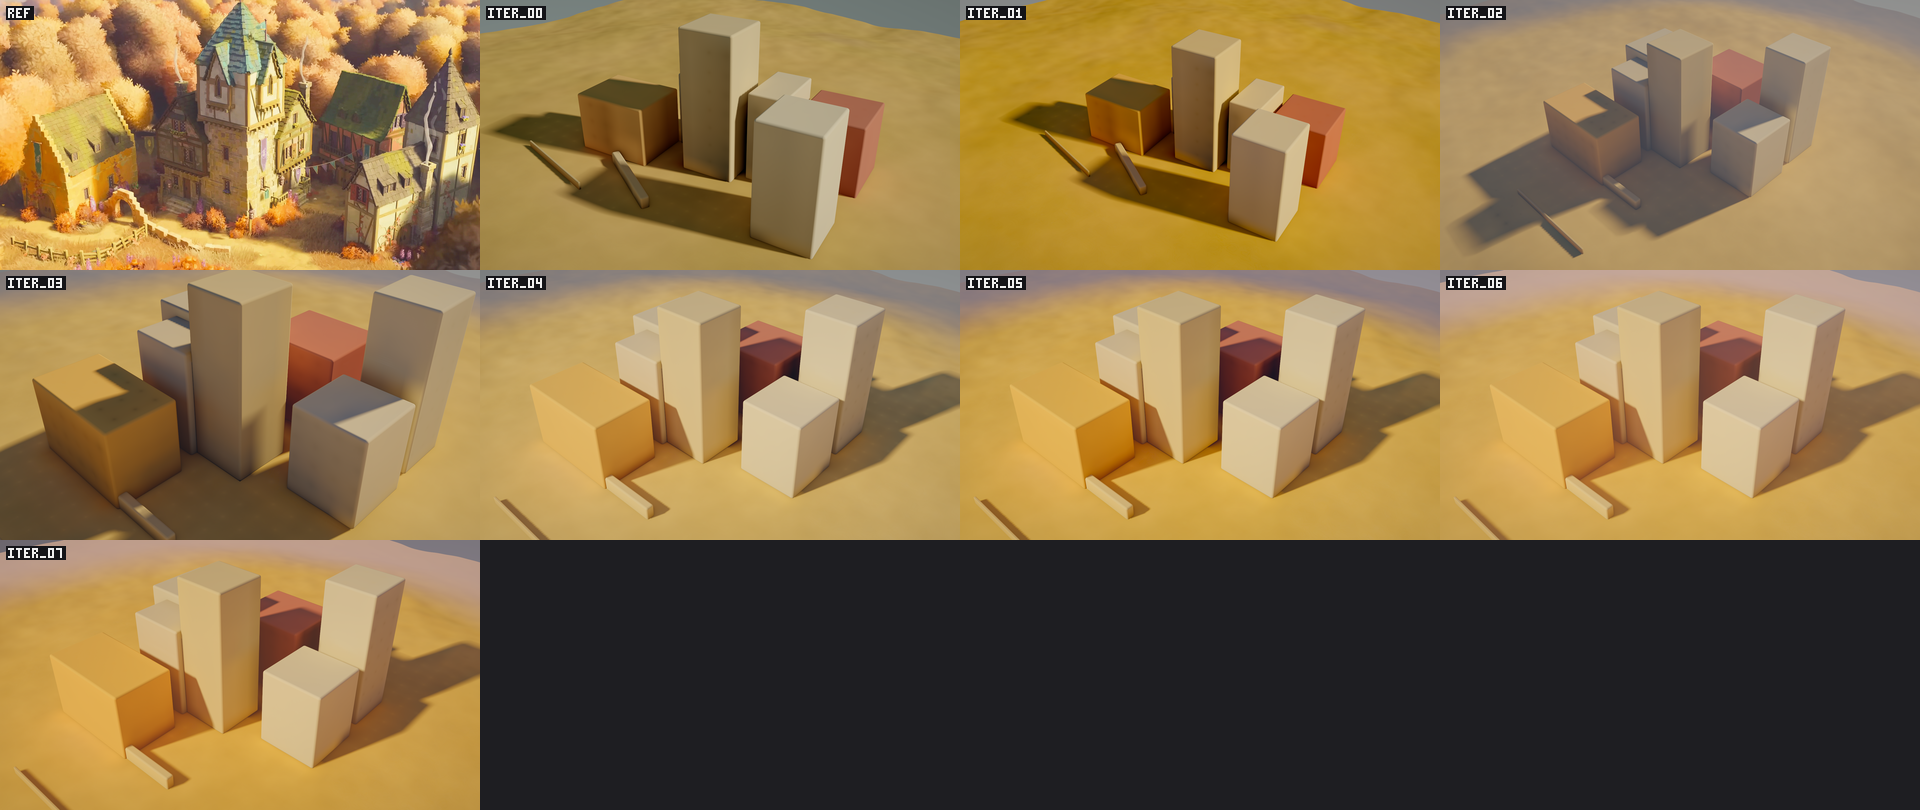
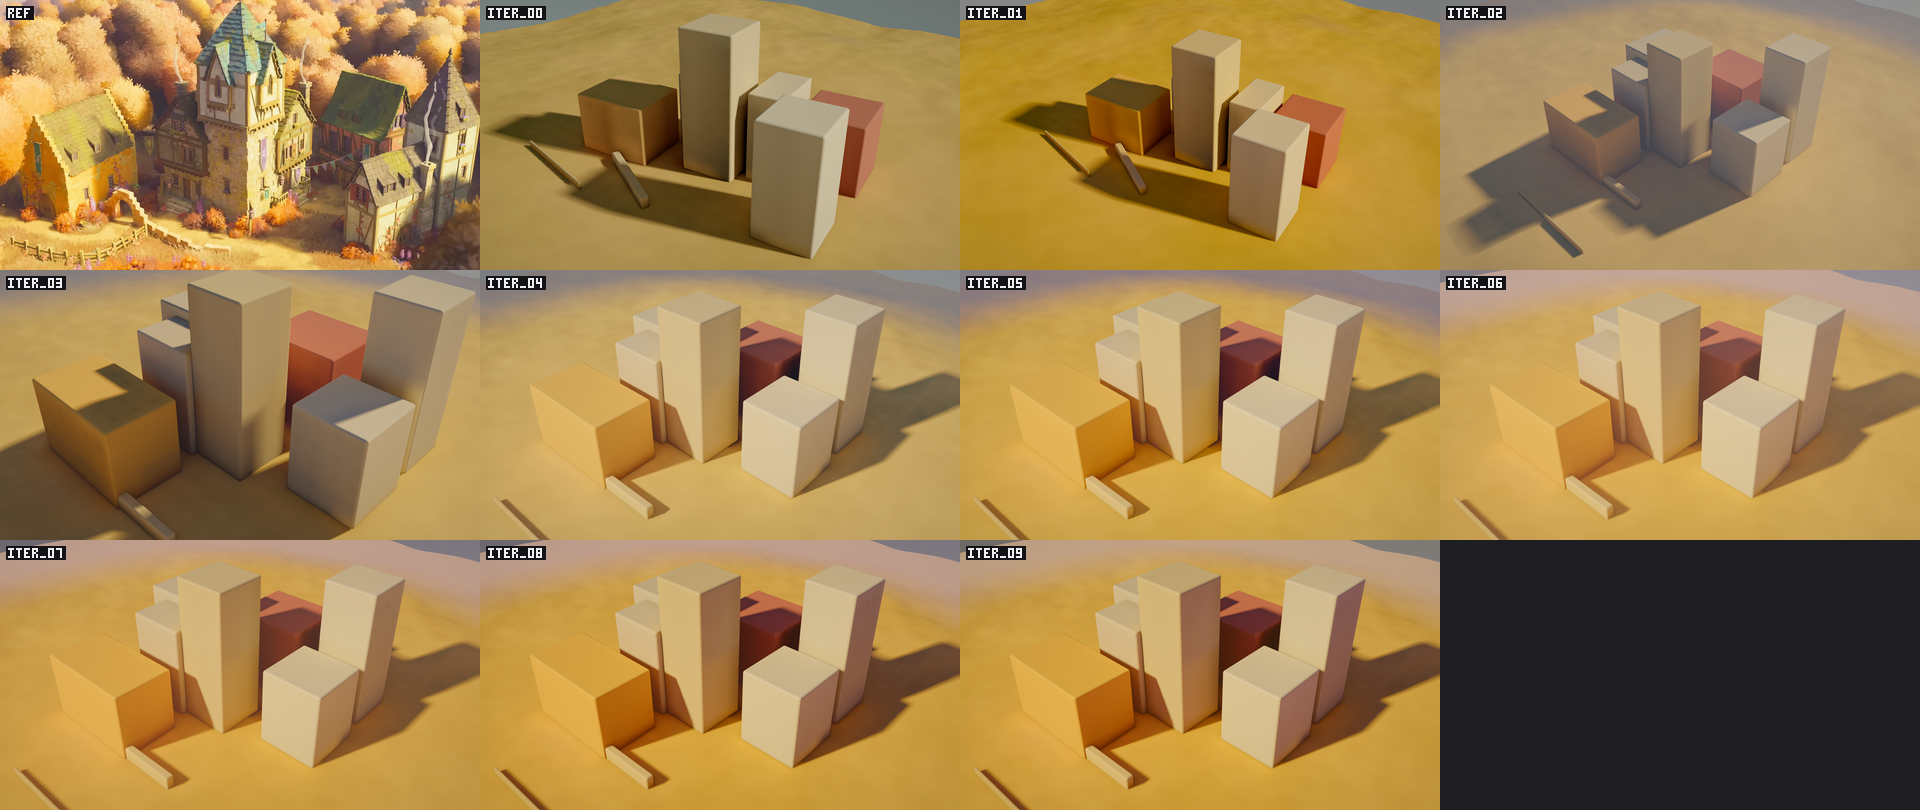
G1 lighting sandbox: shade tint, near-haze cutoff, iterations 8-9, critic; stop for review

Changed region(s): [[0.25, 0.6481, 0.75, 1.0]]

diff --git a/crates/gouache_world/src/look.rs b/crates/gouache_world/src/look.rs
@@ -24,6 +24,8 @@ pub struct Look {
     pub ambient_tint: [f32; 3],
     /// Tint on the visible sky/backdrop.
     pub sky_tint: [f32; 3],
+    /// Multiplier on ambient light where the sun does not reach (cool violet shade).
+    pub shade_tint: [f32; 3],
     /// Aerial perspective density (1/m).
     pub haze_density: f32,
     /// Linear exposure multiplier.
@@ -51,6 +53,7 @@ impl Default for Look {
             ambient_tint: [1.0, 1.0, 1.0],
             sky_tint: [1.0, 1.0, 1.0],
             haze_density: 0.004,
+            shade_tint: [1.0, 1.0, 1.0],
             exposure: 1.6,
             gi_strength: 1.0,
             ao_strength: 1.0,

diff --git a/crates/gouache_render/src/renderer.rs b/crates/gouache_render/src/renderer.rs
@@ -484,6 +484,7 @@ impl Renderer {
             debug: [self.settings.view as u32, self.accum, u32::from(still), 0],
             ambient_tint: [look.ambient_tint[0], look.ambient_tint[1], look.ambient_tint[2], 0.0],
             sky_tint: [look.sky_tint[0], look.sky_tint[1], look.sky_tint[2], 0.0],
+            shade_tint: [look.shade_tint[0], look.shade_tint[1], look.shade_tint[2], 0.0],
             haze: [look.haze_density, scene.radius * 0.62, scene.center.x, scene.center.z],
         };
         ctx.queue.write_buffer(&self.uniforms, 0, bytemuck::bytes_of(&u));

diff --git a/crates/gouache_render/src/frame.rs b/crates/gouache_render/src/frame.rs
@@ -30,6 +30,7 @@ pub struct FrameUniforms {
     pub(crate) ambient_tint: [f32; 4],
     pub(crate) sky_tint: [f32; 4],
     pub(crate) haze: [f32; 4],
+    pub(crate) shade_tint: [f32; 4],
 }
 
 /// Debug visualisation modes (lighting.wgsl).

diff --git a/docs/shots/g1/report_iter09.md b/docs/shots/g1/report_iter09.md
@@ -1,0 +1,102 @@
+# Match `01_tinyglade_town` iter 09
+
+Gated regions pass: **NO**
+
+## whole_frame FAIL
+
+| metric | ref | ours | distance | limit | |
+|---|---|---|---|---|---|
+| palette_de | 0.000 | 0.000 | 5.340 | <= 6 | ok |
+| l_hist_emd | 0.646 | 0.678 | 0.096 | <= 0.035 | **x** |
+| chroma_hist_l1 | 0.084 | 0.098 | 0.661 | <= 0.5 | **x** |
+| hue_hist_l1 | 0.000 | 0.000 | 0.819 | <= 0.6 | **x** |
+| shadow_light_ratio | 0.452 | 0.594 | 0.142 | <= 0.08 | **x** |
+| warm_cool_sep | 0.066 | 0.010 | 0.056 | <= 0.025 | **x** |
+| local_contrast | 0.045 | 0.009 | 0.203 | ratio in [0.7, 1.45] | **x** |
+| edge_density | 0.535 | 0.072 | 0.134 | ratio in [0.6, 1.7] | **x** |
+| spectrum_rms | 0.000 | 0.000 | 0.256 | <= 0.45 | ok |
+
+## backdrop_haze FAIL (gated)
+
+| metric | ref | ours | distance | limit | |
+|---|---|---|---|---|---|
+| palette_de | 0.000 | 0.000 | 10.973 | <= 6 | **x** |
+| l_hist_emd | 0.788 | 0.680 | 0.112 | <= 0.035 | **x** |
+| chroma_hist_l1 | 0.091 | 0.046 | 1.715 | <= 0.5 | **x** |
+| hue_hist_l1 | 0.000 | 0.000 | 1.266 | <= 0.6 | **x** |
+| shadow_light_ratio | 0.723 | 0.755 | 0.032 | <= 0.08 | ok |
+| warm_cool_sep | 0.037 | 0.040 | 0.003 | <= 0.025 | ok |
+| local_contrast | 0.031 | 0.009 | 0.293 | ratio in [0.7, 1.45] | x (info) |
+| edge_density | 0.444 | 0.042 | 0.094 | ratio in [0.6, 1.7] | x (info) |
+| spectrum_rms | 0.000 | 0.000 | 1.642 | <= 0.45 | x (info) |
+
+## shadow_edge FAIL (gated)
+
+| metric | ref | ours | distance | limit | |
+|---|---|---|---|---|---|
+| palette_de | 0.000 | 0.000 | 4.888 | <= 6 | ok |
+| l_hist_emd | 0.609 | 0.482 | 0.130 | <= 0.035 | **x** |
+| chroma_hist_l1 | 0.087 | 0.070 | 0.921 | <= 0.5 | **x** |
+| hue_hist_l1 | 0.000 | 0.000 | 0.858 | <= 0.6 | **x** |
+| shadow_light_ratio | 0.473 | 0.564 | 0.091 | <= 0.08 | **x** |
+| warm_cool_sep | 0.063 | 0.038 | 0.025 | <= 0.025 | **x** |
+| local_contrast | 0.041 | 0.014 | 0.332 | ratio in [0.7, 1.45] | x (info) |
+| edge_density | 0.527 | 0.142 | 0.270 | ratio in [0.6, 1.7] | x (info) |
+| spectrum_rms | 0.000 | 0.000 | 1.756 | <= 0.45 | x (info) |
+
+## grass_with_bounce_light FAIL (gated)
+
+| metric | ref | ours | distance | limit | |
+|---|---|---|---|---|---|
+| palette_de | 0.000 | 0.000 | 6.418 | <= 6 | **x** |
+| l_hist_emd | 0.777 | 0.702 | 0.078 | <= 0.035 | **x** |
+| chroma_hist_l1 | 0.121 | 0.121 | 0.273 | <= 0.5 | ok |
+| hue_hist_l1 | 0.000 | 0.000 | 0.553 | <= 0.6 | ok |
+| shadow_light_ratio | 0.729 | 0.835 | 0.106 | <= 0.08 | **x** |
+| warm_cool_sep | -0.010 | 0.009 | 0.018 | <= 0.025 | ok |
+| local_contrast | 0.049 | 0.010 | 0.202 | ratio in [0.7, 1.45] | x (info) |
+| edge_density | 0.616 | 0.085 | 0.138 | ratio in [0.6, 1.7] | x (info) |
+| spectrum_rms | 0.000 | 0.000 | 1.170 | <= 0.45 | x (info) |
+
+## tree_canopy FAIL
+
+| metric | ref | ours | distance | limit | |
+|---|---|---|---|---|---|
+| palette_de | 0.000 | 0.000 | 7.574 | <= 6 | **x** |
+| l_hist_emd | 0.664 | 0.704 | 0.113 | <= 0.035 | **x** |
+| chroma_hist_l1 | 0.082 | 0.060 | 1.358 | <= 0.5 | **x** |
+| hue_hist_l1 | 0.000 | 0.000 | 0.454 | <= 0.6 | ok |
+| shadow_light_ratio | 0.473 | 0.751 | 0.278 | <= 0.08 | **x** |
+| warm_cool_sep | 0.070 | 0.009 | 0.062 | <= 0.025 | **x** |
+| local_contrast | 0.042 | 0.006 | 0.143 | ratio in [0.7, 1.45] | **x** |
+| edge_density | 0.499 | 0.042 | 0.084 | ratio in [0.6, 1.7] | **x** |
+| spectrum_rms | 0.000 | 0.000 | 0.857 | <= 0.45 | **x** |
+
+## stone_wall_base FAIL
+
+| metric | ref | ours | distance | limit | |
+|---|---|---|---|---|---|
+| palette_de | 0.000 | 0.000 | 6.190 | <= 6 | **x** |
+| l_hist_emd | 0.671 | 0.665 | 0.073 | <= 0.035 | **x** |
+| chroma_hist_l1 | 0.079 | 0.106 | 1.062 | <= 0.5 | **x** |
+| hue_hist_l1 | 0.000 | 0.000 | 0.980 | <= 0.6 | **x** |
+| shadow_light_ratio | 0.532 | 0.576 | 0.043 | <= 0.08 | ok |
+| warm_cool_sep | 0.011 | -0.025 | 0.037 | <= 0.025 | **x** |
+| local_contrast | 0.039 | 0.019 | 0.499 | ratio in [0.7, 1.45] | **x** |
+| edge_density | 0.466 | 0.160 | 0.344 | ratio in [0.6, 1.7] | **x** |
+| spectrum_rms | 0.000 | 0.000 | 0.473 | <= 0.45 | **x** |
+
+## roof_teal_slates FAIL
+
+| metric | ref | ours | distance | limit | |
+|---|---|---|---|---|---|
+| palette_de | 0.000 | 0.000 | 6.947 | <= 6 | **x** |
+| l_hist_emd | 0.656 | 0.662 | 0.084 | <= 0.035 | **x** |
+| chroma_hist_l1 | 0.061 | 0.085 | 1.181 | <= 0.5 | **x** |
+| hue_hist_l1 | 0.000 | 0.000 | 1.027 | <= 0.6 | **x** |
+| shadow_light_ratio | 0.495 | 0.632 | 0.137 | <= 0.08 | **x** |
+| warm_cool_sep | 0.052 | 0.025 | 0.027 | <= 0.025 | **x** |
+| local_contrast | 0.072 | 0.012 | 0.166 | ratio in [0.7, 1.45] | **x** |
+| edge_density | 0.658 | 0.088 | 0.134 | ratio in [0.6, 1.7] | **x** |
+| spectrum_rms | 0.000 | 0.000 | 1.095 | <= 0.45 | **x** |
+

diff --git a/docs/LOOKDEV.md b/docs/LOOKDEV.md
@@ -12,3 +12,34 @@ Debug sheet: docs/shots/g0/g0_debug_sheet.png (lit / indirect / ao / shadow).
   TAA history re-sampling each still frame [fixed: still-camera accumulates at the same pixel]; (3) SSAO
   too weak at contacts; (4) shadows read olive, not violet (ground albedo × blue sky); (5) sky colour cold
   grey vs. warm lavender/peach haze of ref 01.
+
+## G1 — Reference-Match Loop on ref 01 (scene scenes/g1_lighting.json)
+Images: docs/shots/match/01_tinyglade_town/iter_NN/ (local, git-ignored); key side-by-sides copied to docs/shots/g0/match01_iter{00,04,07}.png.
+
+| iter | change (1-2 per iteration) | gated-region result |
+|---|---|---|
+| 00 | baseline (sun az 71, default look) | all fail; frame grey-beige, no warm/cool split (0.010 vs ref 0.066) |
+| 01 | warm sun tint, violet ambient tint, sat 1.25; tool: dither-free stats + per-region gating (ADR-009) | mustard, too saturated; region content mismatched |
+| 02 | ref-01 massing laid out in camera space; aerial haze + diorama edge fade | haze far too strong (washed out) |
+| 03 | camera closer, haze ÷3 | framing overshoot; walls in shade read neutral grey |
+| 04 | **front-left key light** (az 200, el 35) + GI ×1.3 (hypothesis: ref lights camera-facing surfaces) | first "warm clay diorama" read; grass palette passes |
+| 05 | `ours_rect` for shadow_edge (same subject); sky tint peach; sat 1.3 | shadow_edge palette passes (5.1) |
+| 06 | haze = sky light + sun in-scatter; min penumbra 3 texels (fence serration) | backdrop ΔE 16→10, warm/cool matches |
+| 07 | sky fill ×0.75, display contrast 1.15 | backdrop shadow/light passes; whole-frame warm/cool still 0.003 |
+
+### Top 5 differences after iter 07 (region-referenced)
+1. whole frame / shadow_edge: darkest tones are warm brown; ref darks are lavender-violet (canopy gaps, shaded walls). Cause: lighting — sky ambient too weak vs warm ground bounce in shade; no cool contribution in occluded areas. Fix: GTAO multi-bounce with cool tint + separate ambient for occluded vs. open (G1 next).
+2. shadow_edge: ours shadow/light ratio 0.66 vs ref 0.47 — shadows too filled. Cause: GI ×1.3 + haze lift. Fix: reduce haze on near pixels, stronger AO at contacts.
+3. grass_with_bounce_light: value histogram narrow (no blade texture). Cause: geometry/content (G3). Informative.
+4. backdrop_haze: chroma 0.04 vs 0.09 — ref backdrop is orange canopy + lavender gaps. Cause: content (G4 trees) + backdrop is plain haze. Fix: painted backdrop ring (G1/G6).
+5. blocks: lit vs shaded faces too similar in value; ref has crisper form. Cause: lighting — exposure/haze compress range. Fix: lower haze near, raise sun/sky ratio.
+
+### Experiment (b) stone courses — docs/shots/g0/exp_b_vs_ref02.png
+Believable irregular beveled stones conforming to terrain. Vs ref 02: too brick-regular, low hue variance, mortar not dark enough, no multi-course stones, flat top cap → G7.
+| 08 | `shade_tint` (cool ambient where sun doesn't reach), no haze < 30 m, AO^2 | whole-frame palette passes; shadow_edge warm/cool passes (0.040) |
+| 09 | shade more lavender, warm sky tint (critic #1/#2) | shaded faces rose-lavender; shadow_edge palette 4.9 ok |
+
+### Critic (blind, iter 07): identified the WIP with 100% confidence. Scores: shadow_edge 2/5, grass 3/5, backdrop 1/5.
+Gives away: warm (not violet) shadows; flat pink-beige backdrop with hard grey sky wedge; haze reads as fog not light;
+no bloom/highlight roll-off; flat ground; uniformly soft shadows (weak contact hardening). Iter 08-09 address #1.
+Unresolved: grey sky void, bloom, contact hardening, backdrop content.

diff --git a/docs/PROGRESS.md b/docs/PROGRESS.md
@@ -1,6 +1,6 @@
 # Progress
 
-_Last updated: 2026-11-16 (session 1)._ Resume: read this, then DECISIONS.md and LOOKDEV.md.
+_Last updated: 2026-11-16 (session 1, stopped at G1 for user review)._ Resume: read this, then DECISIONS.md and LOOKDEV.md.
 
 ## Current phase: PHASE 0 (Foundations + Study) → gate G0
 
@@ -16,16 +16,17 @@ _Last updated: 2026-11-16 (session 1)._ Resume: read this, then DECISIONS.md and
 - `gouache_cli`: `shot`, `contact`, `match` (full §11.2 metrics + images), `golden`, `hash`.
 - First lit test scene renders: docs/shots/g0/g0_debug_sheet.png.
 
-### In progress
-- Reference `.match.json` for refs 01/02/03 (camera/sun estimates, regions).
-- Study docs (`docs/STUDY/*`).
+### In progress — G1 lighting sandbox: **USER STOP reached (awaiting review)**
+- Match loop on ref 01: 10 iterations (00-09), critic run once (iter 07). Evidence: docs/shots/g1/
+  (side_by_side_iter09.png, regions_iter09.png, report_iter09.md, progress.png). Gated regions do NOT all pass yet.
+- G0 status: done except CI 3-OS verification (no remote), GPU timestamps/overlay, editor surface spike.
+- Experiments: (a) GI ✔, (b) stone courses ✔ docs/shots/g0/exp_b_vs_ref02.png, (d) PCSS+AO ✔ (AO weak-ish).
 
-### Next (Phase 0 order, §14)
-1. Study docs from research done (kajiya GI summary, Tiny Glade sources) → STUDY/{RENDERING,PROCEDURAL,UX,OPEN_QUESTIONS,SOURCES,PLAN}.md
-2. CI workflow + deny.toml (needs a GitHub remote to verify 3-OS green — ask user at G1 stop).
-3. GPU timestamps + frame-time overlay; editor surface spike (ADR-001).
-4. Experiment (b) stone coursing along a curve; (d) stronger contact AO; (a) GI vs reference.
-5. G0 report → G1 lighting sandbox (USER STOP).
+### Next (after user review)
+1. Critic items: sky void → warm gradient/painted backdrop ring; bloom + highlight roll-off; contact-hardening (SDSM/
+   tighter shadow fit + smaller min penumbra near contact); GTAO.
+2. Re-run critic each iteration until regions >= 4 and thresholds pass (max 25 iterations).
+3. G0 leftovers: GPU timestamps + frame-time overlay; editor window spike (ADR-001); CI once a remote exists.
 
 ### Known issues
 - SSAO weak at contacts; shadows not violet enough; sky grey (see LOOKDEV).
